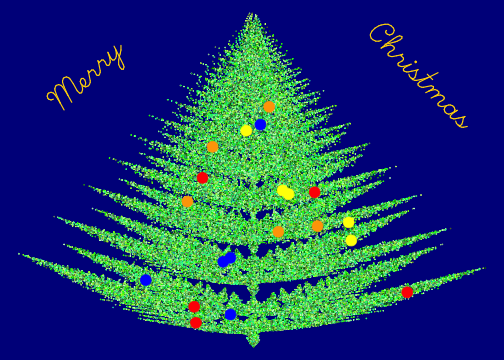
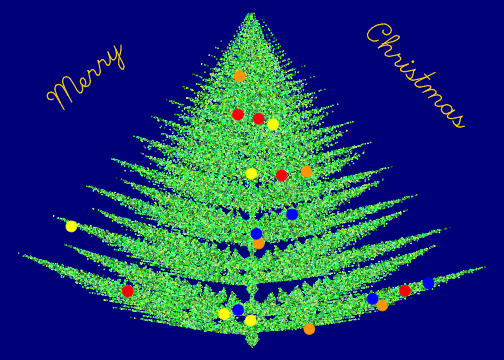
update

diff --git a/RNA-Seq-Workshop/2026/lab_R/RNASeq-R.html b/RNA-Seq-Workshop/2026/lab_R/RNASeq-R.html
@@ -566,6 +566,8 @@ Low-level plot: add to an existing plot
 ---
 ### Scatter plot
 
+
+
 ``` r
 area &lt;- state.x77[, "Area"]
 pop &lt;- state.x77[, "Population"]